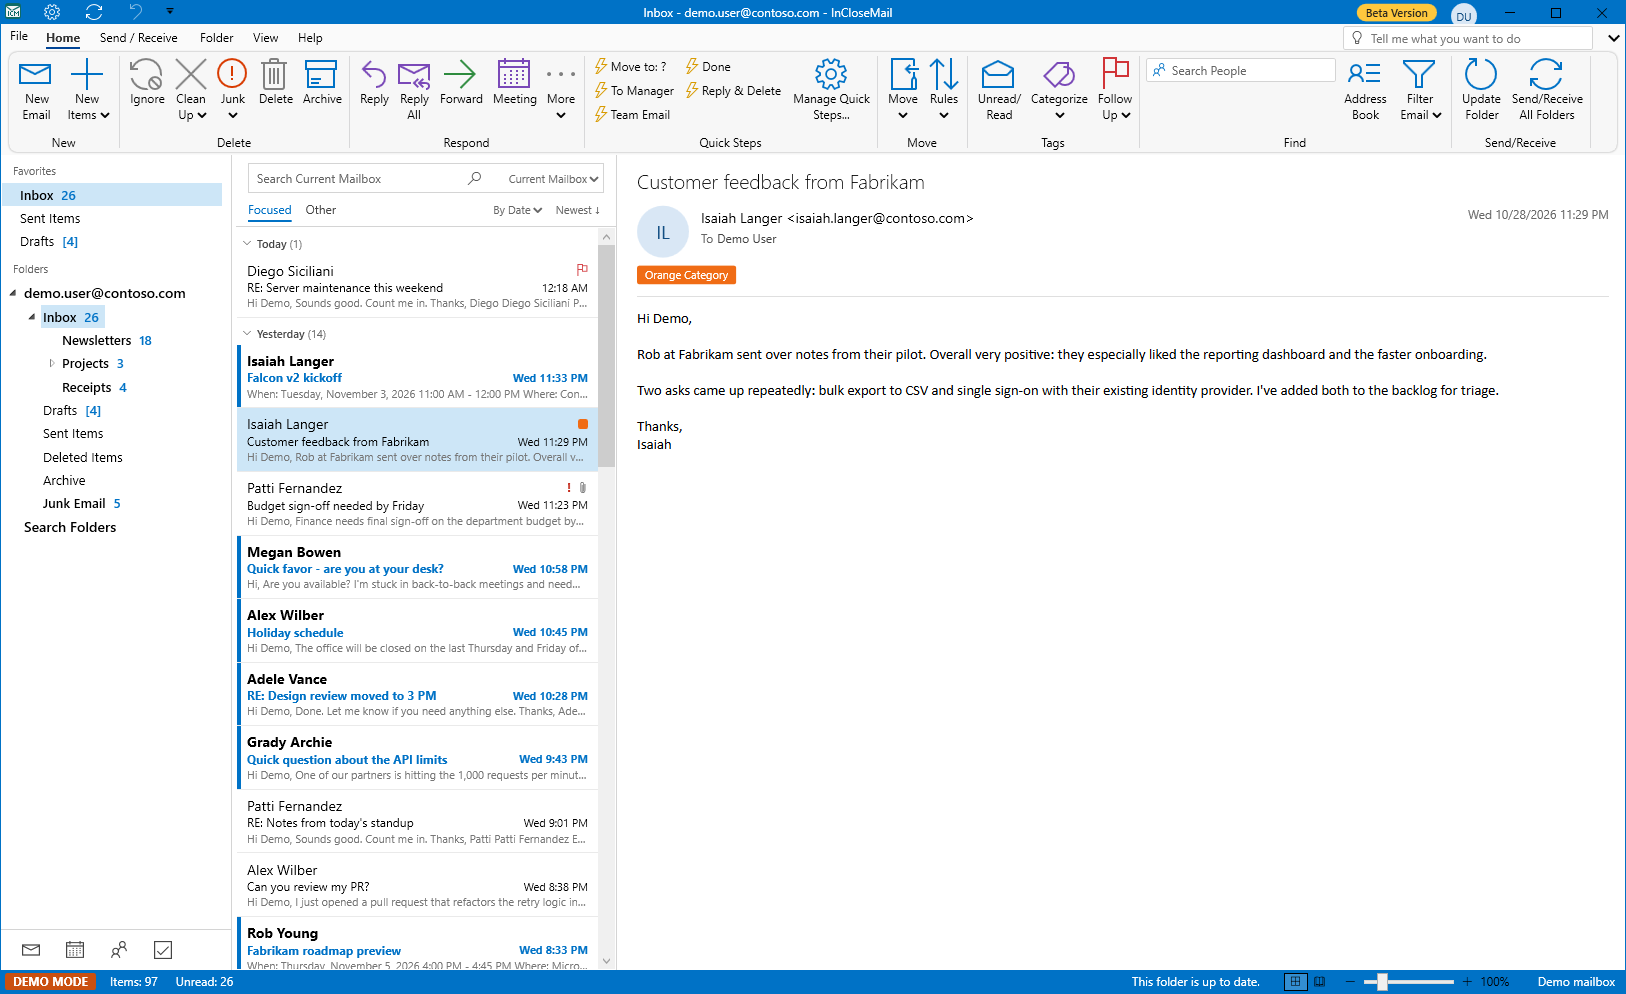
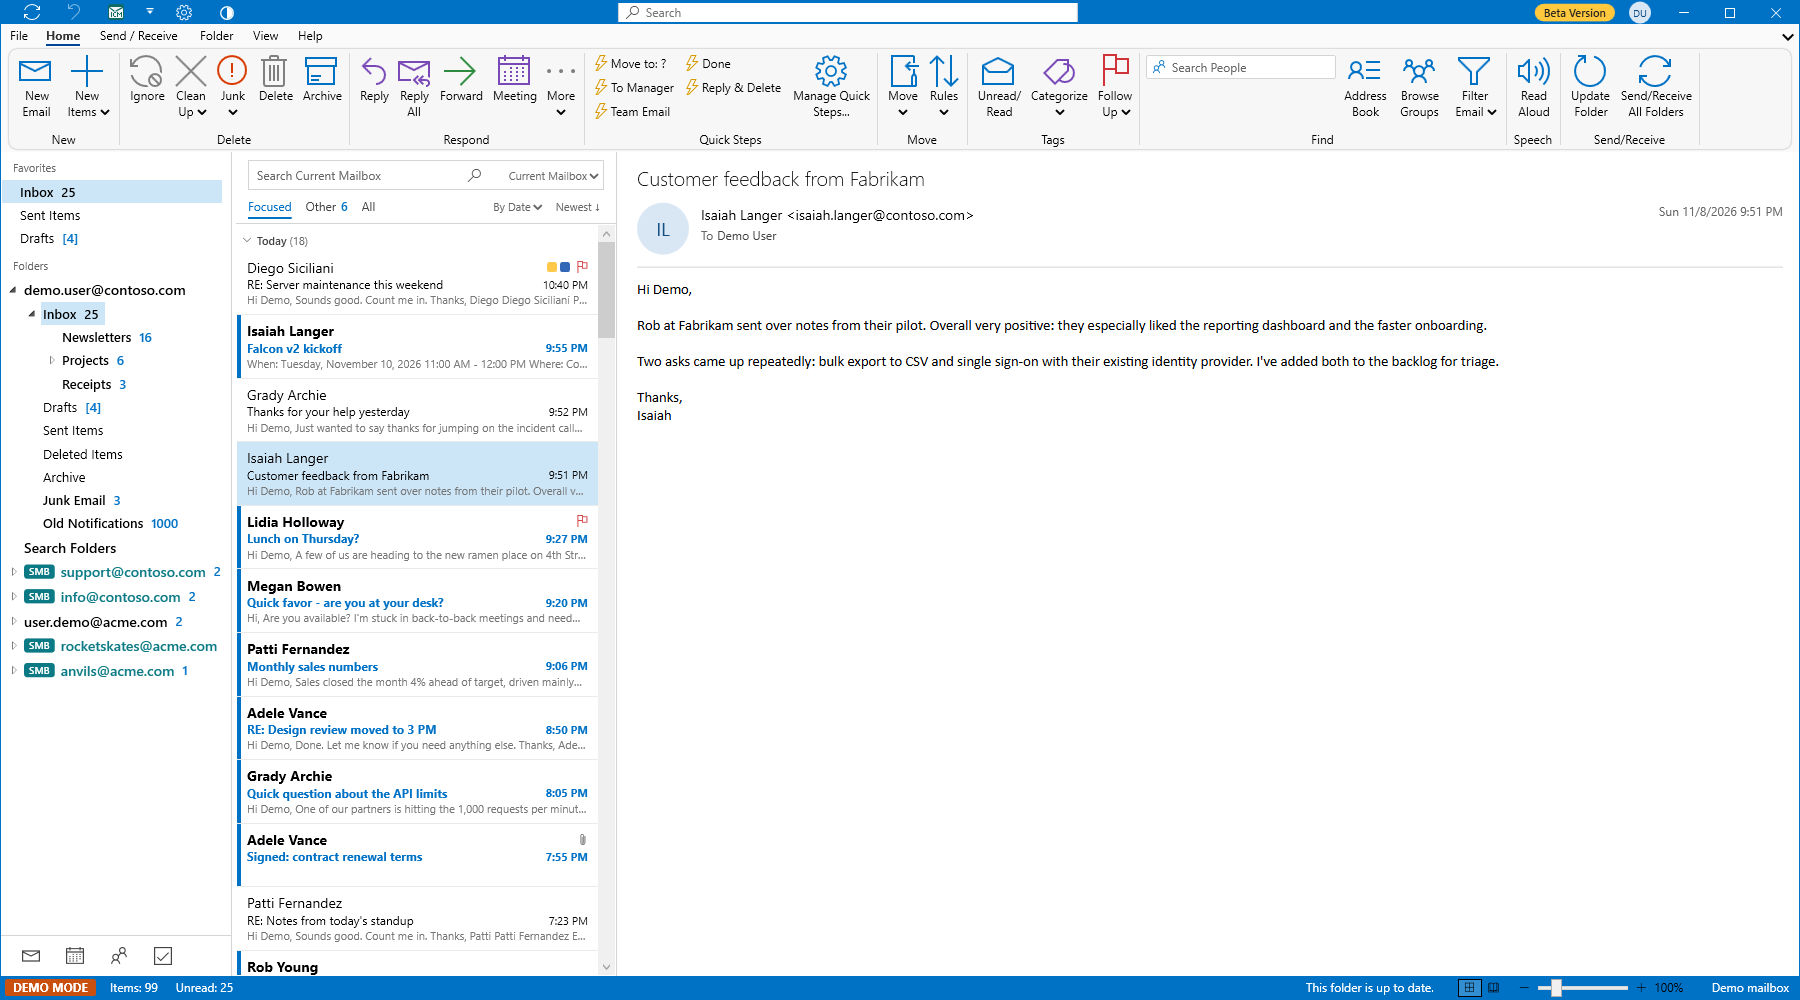
Home page screenshots: shared mailboxes and a second account
New light and dark shots of the demo mailbox from 26.11.803, wide enough
for the whole ribbon (1800x1000).

Changed region(s): [[0.0, 0.0, 1.0, 0.998], [0.7073, 0.9668, 1.0, 0.998], [0.9225, 0.1871, 1.0, 0.2183]]

diff --git a/index.html b/index.html
@@ -45,10 +45,10 @@
   <main class="wrap">
     <figure class="shot">
       <!-- The app in the page's mode: light normally, Dark Mode when the page is dark. -->
-      <img class="shot-light" src="screenshot.png" width="1626" height="994"
-           alt="InCloseMail showing an Inbox: the ribbon across the top, the folder list on the left, the message list in the middle and the open message on the right.">
-      <img class="shot-dark" src="screenshot-dark.png" width="1626" height="994"
-           alt="InCloseMail in Dark Mode showing an Inbox: the ribbon across the top, the folder list on the left, the message list in the middle and the open message on the right.">
+      <img class="shot-light" src="screenshot.png" width="1800" height="1000"
+           alt="InCloseMail showing an Inbox: the ribbon across the top; the folder list on the left with the main account, its shared mailboxes and a second account with its own shared mailboxes; the message list in the middle and the open message on the right.">
+      <img class="shot-dark" src="screenshot-dark.png" width="1800" height="1000"
+           alt="InCloseMail in Dark Mode showing an Inbox: the ribbon across the top; the folder list on the left with the main account, its shared mailboxes and a second account with its own shared mailboxes; the message list in the middle and the open message on the right.">
       <figcaption>InCloseMail with its sample mailbox.</figcaption>
     </figure>
 
